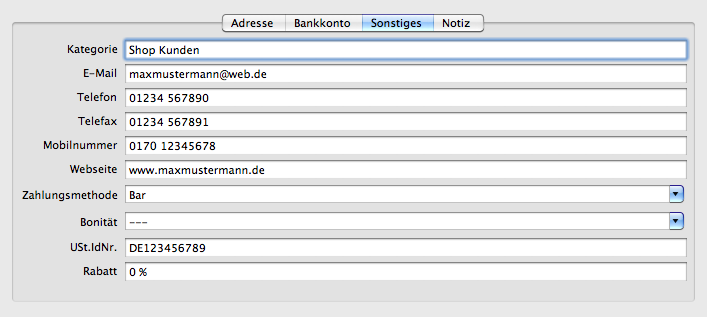
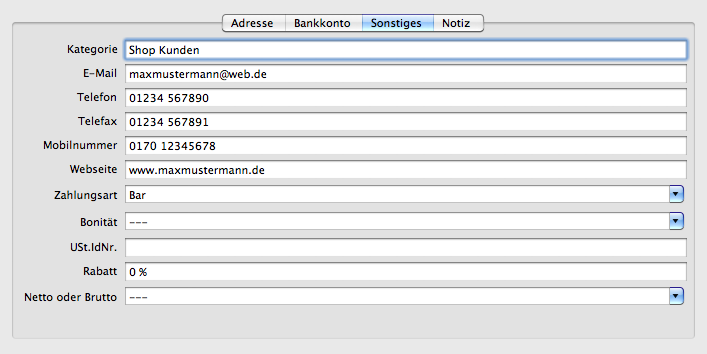
Updated screenshot pictures.

diff --git a/trunk/com.sebulli.fakturama.help/html/editor/editor_document.html b/trunk/com.sebulli.fakturama.help/html/editor/editor_document.html
@@ -16,6 +16,7 @@
 	<h2>Bestellstatistik</h2>
 	<p>Wird ein Dokument vom Typ <b>Bestellung</b> geöffnet, kann bei Stammkunden ein Dialog eingeblendet werden,
 	der die bisher bezahlten Rechnungen und den Umsatz anzeigt.</p>
+	<img class="screenshot" src="customer_statistics_dialog.png" alt="" /> <br />
 	<p class="see">Siehe auch <a href="../preferences/document.html#preferences_document_customer_statistics">Einstellungen Dokument</a></p>
 
 
@@ -84,14 +85,18 @@
 	Ein Klick auf dieses öffnet eine vergrößerte Ansicht des Produktbildes.</p>
 	<p class="see">Siehe auch <a href="../preferences/document.html#preferences_document_previewpicture">Einstellungen Dokument Vorschaubild</a></p>
 
-	<p>Ein Artikel kann als optionaler Artikel (Bedarfspostion) markiert werden.
-	Er wird auf der Rechnung als solche markiert und wird nicht bei der Berechnung der
+	<p>Bei einem Angebot kann ein Artikel als optionaler Artikel (Bedarfspostion) markiert werden.
+	Er wird auf dem Angebot markiert und wird nicht bei der Berechnung der
 	Gesamtsumme verwendet.</p>
+	<img class="screenshot" src="editor_document_optional_item.png" alt="" /> <br />
+	<p class="see">Siehe auch <a href="../preferences/optional_items.html">Einstellungen Bedarfspositionen</a></p>
 
 	<p>Artikel können nach oben und unten verschoben werden. 
 	Über das Kontextmenü (rechte Maustaste auf Artikelliste).</p>
+	<img class="icon" src="editor_document_context_menu.png" alt="" /> <br />
+	
 
-	<p><b>Tipp:</b>Sind alle Preise in Brutto, kann ein Preis dennoch als Nettowert eingegeben werden.
+	<p><b>Tipp:</b> Sind alle Preise in Brutto, kann ein Preis dennoch als Nettowert eingegeben werden.
 	Dazu bei der Eingabe des Preises ein <b>netto</b> anfügen. Bei Bruttopreisen ein <b>brutto</b> anfügen.</p>
 	<p>Beispiel:<b>7,00€ netto</b></p>
 

diff --git a/trunk/com.sebulli.fakturama.help/html/preferences/document.html b/trunk/com.sebulli.fakturama.help/html/preferences/document.html
@@ -33,18 +33,22 @@
 	<a name="preferences_document_previewpicture" ></a>
 	<h2>Vorschaubild anzeigen</h2>
 	<p>Im Dokumenteneditor wird ein zusätzliche Spalte mit dem Produktbild eingefügt.</p>
+	<img class="screenshot" src="product_preview.png" alt="" />
 	<p class="see">Siehe auch <a href="../editor/editor_document.html#editor_document_previewpicture">Dokumenteneditor</a></p>
 
 	<h2>Rabatt auf einzelne Artikel benutzen</h2>
 	<p>Die Spalte <b>Rabatt</b> in der Artikelliste wird ein- oder ausgeblendet.</p>
+	<img class="screenshot" src="discount_item.png" alt="" />
 
 	<h2>Rabatt auf alle Artikel benutzen</h2>
 	<p>Die Zeile <b>Rabatt</b> auf alle Artikel wird ein- oder ausgeblendet.</p>
+	<img class="screenshot" src="discount_items.png" alt="" />
 
 	<a name="preferences_document_customer_statistics" ></a>
 	<h2>Dialog bei Stammkunden anzeigen</h2>
 	<p>Ist diese Einstellung aktiv, wird beim Öffnen einer Bestellung geprüft, ob der Kunde in der Vergangenheit
 	bereits bestellt hat. Umsatz und Anzahl der bezahlten Rechnungen werden in einem Dialog angezeigt.</p>
+	<img class="screenshot" src="../editor/customer_statistics_dialog.png" alt="" />
 
 	<h2>Vergleichen:</h2>
 	<p>Legt fest, welche Dokumente beim Überprüfen eines Stammkunden verwendet werden.</p>
